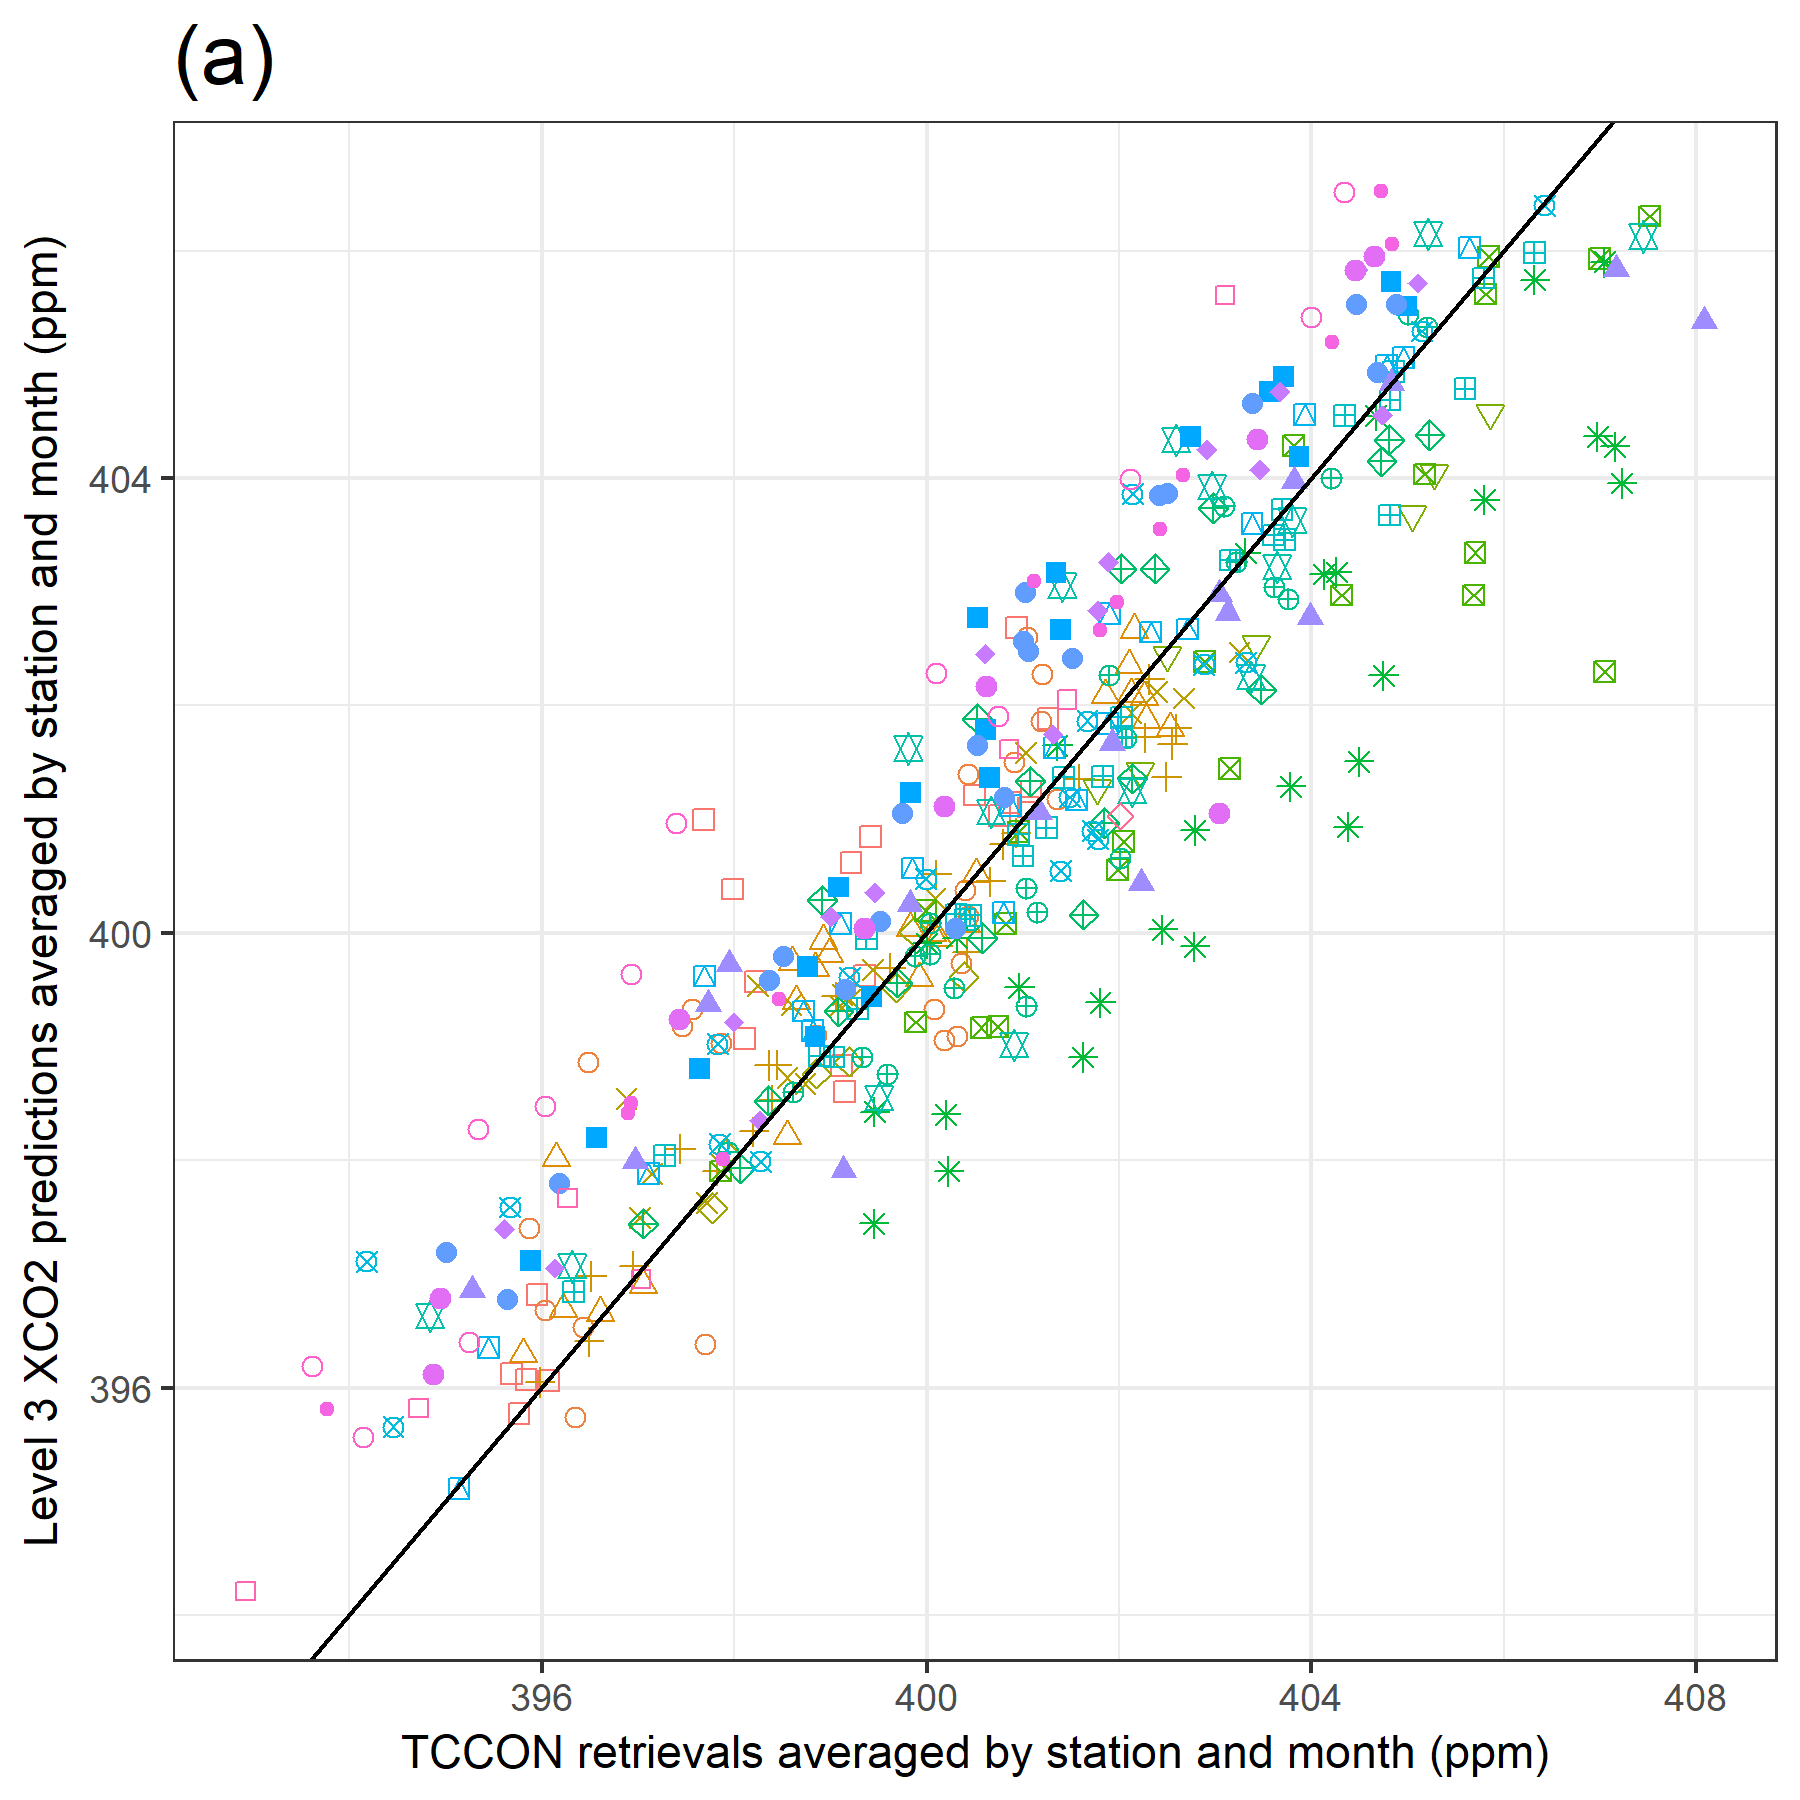
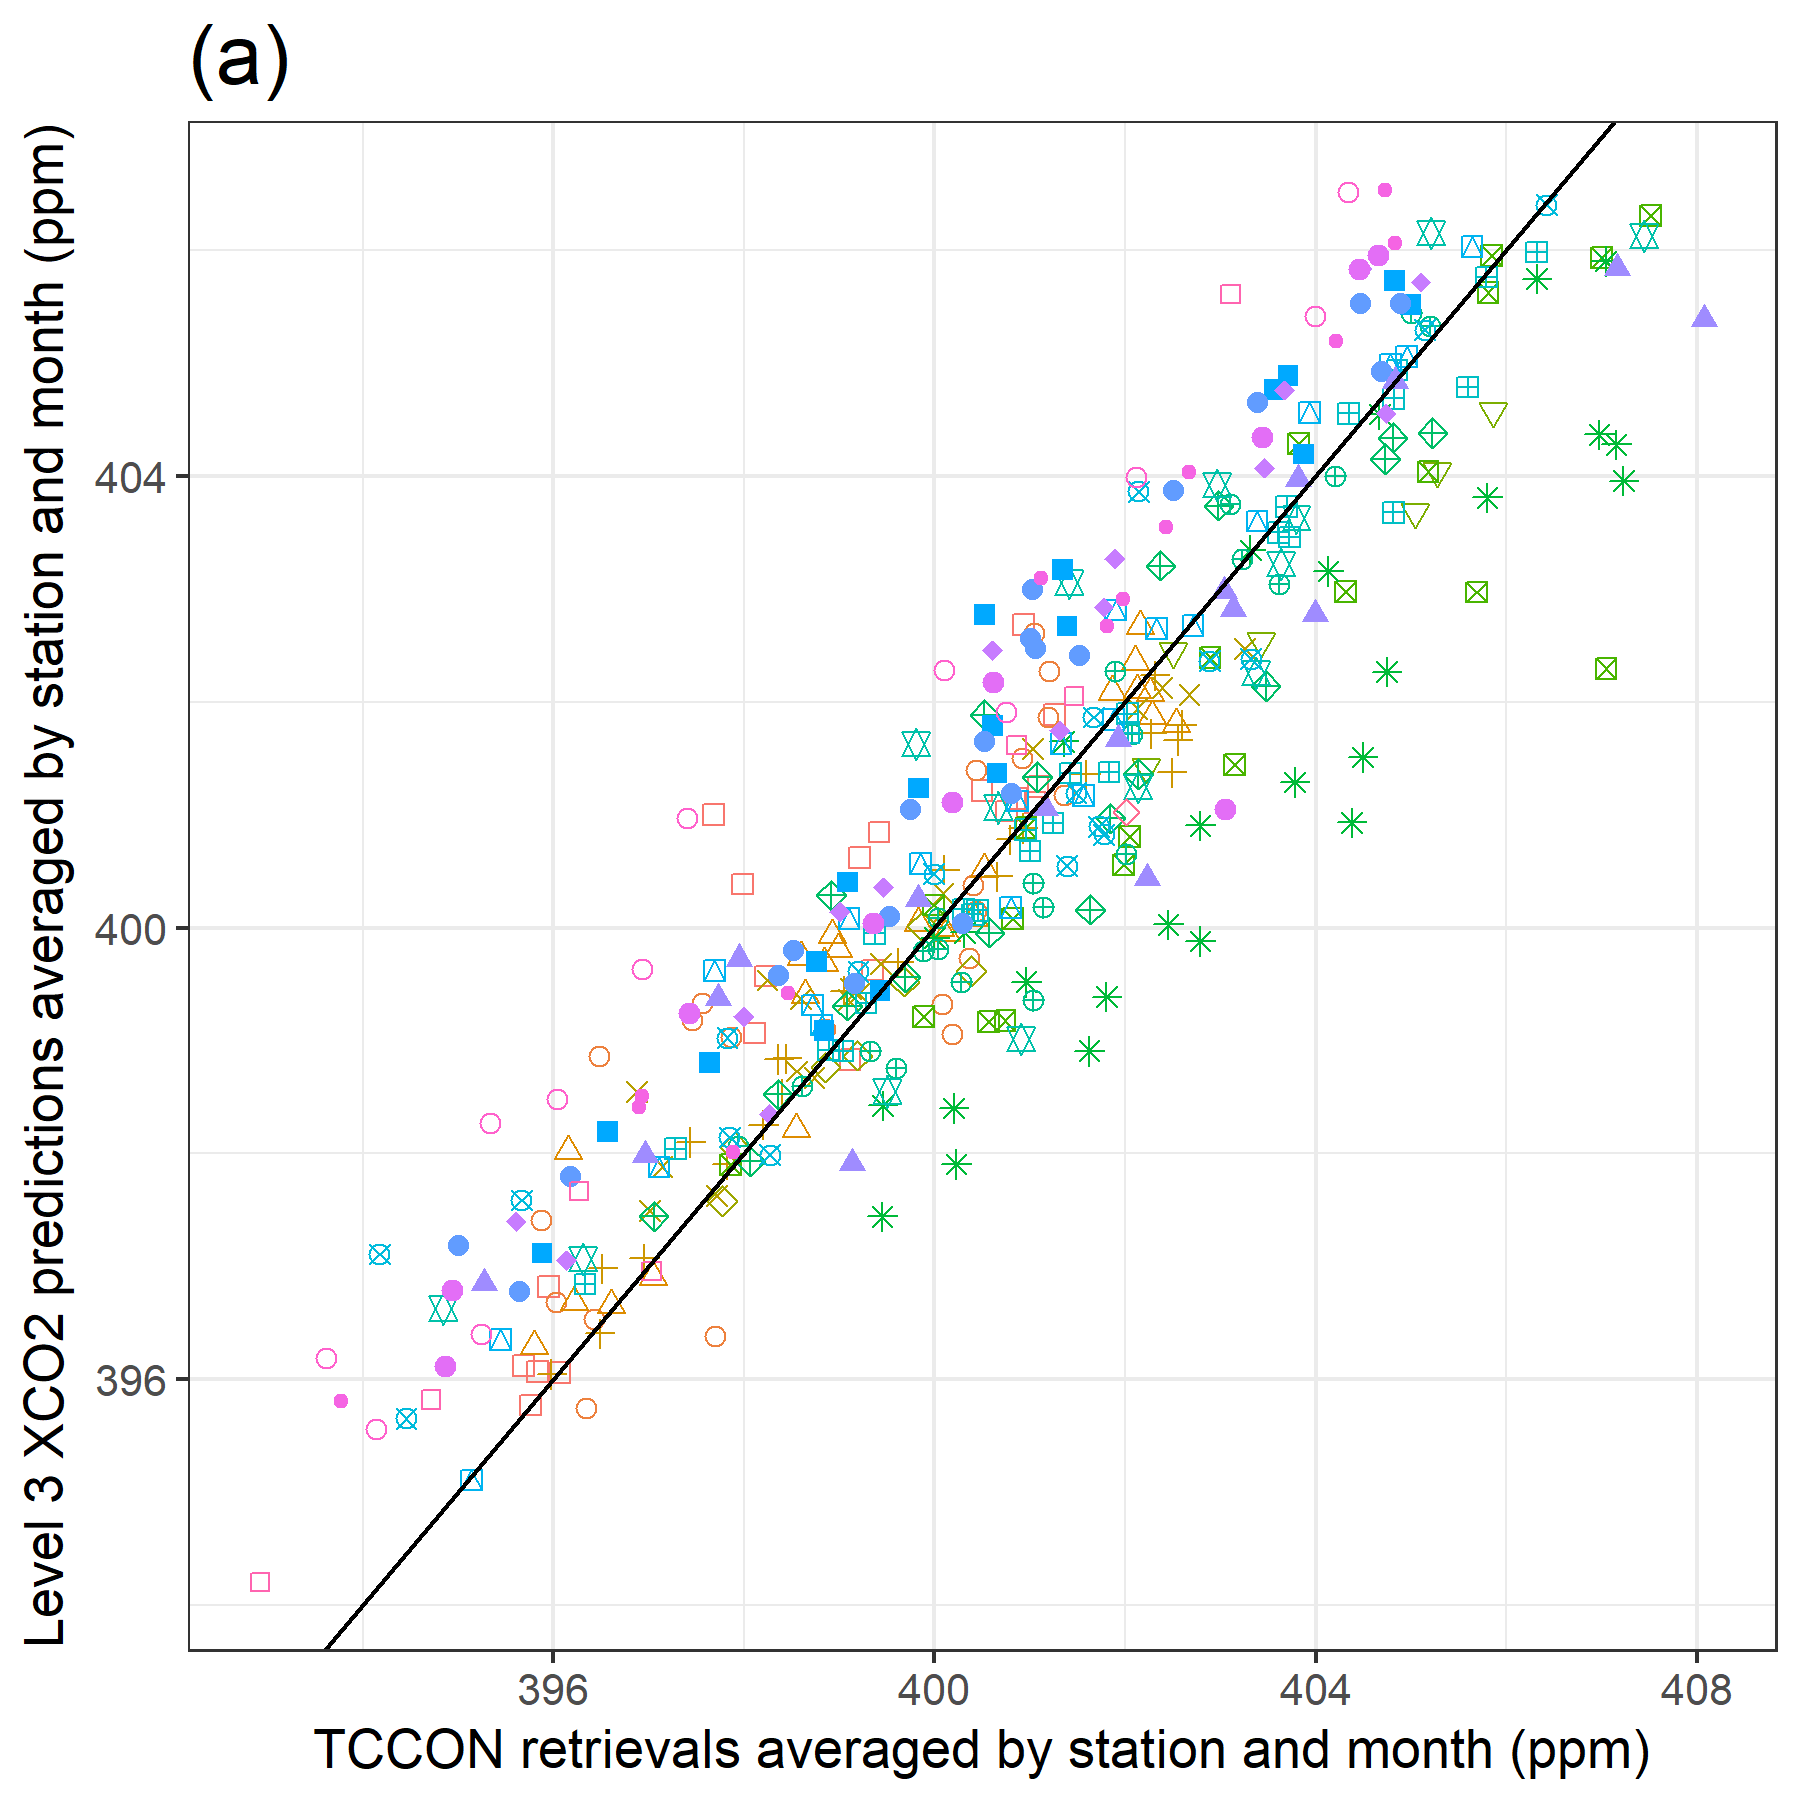
Modified TCCON script to process V7 and V8 simultaneously and compare the same prediction locations

diff --git a/3_Analyse_Results/FRKv8_no_target.tex b/3_Analyse_Results/FRKv8_no_target.tex
@@ -1,25 +1,25 @@
-Eureka & 11 & -0.62 & 0.87 & 1.37 & 0.91 & 0.998 & 0.82 \\ 
-  Nyalesund & 49 & 0.22 & 1.07 & 1.46 & 0.88 & 1.001 & 0.76 \\ 
-  Sodankyla & 142 & 0.73 & 0.91 & 1.16 & 0.94 & 1.002 & 0.85 \\ 
-  Bialystok & 139 & 0.19 & 0.61 & 0.77 & 0.94 & 1.000 & 0.95 \\ 
-  Bremen & 31 & 0.36 & 0.90 & 1.13 & 0.89 & 1.001 & 0.90 \\ 
-  Karlsruhe & 137 & 0.38 & 0.81 & 1.07 & 0.90 & 1.001 & 0.83 \\ 
-  Paris & 96 & -0.72 & 1.22 & 1.56 & 0.83 & 0.998 & 0.81 \\ 
-  Orleans & 176 & 0.38 & 0.79 & 0.99 & 0.90 & 1.001 & 0.85 \\ 
-  Garmisch & 130 & 0.63 & 0.98 & 1.22 & 0.85 & 1.002 & 0.85 \\ 
-  Parkfalls & 213 & -0.14 & 0.70 & 0.92 & 0.92 & 1.000 & 0.94 \\ 
-  Rikubetsu & 68 & -0.07 & 0.82 & 1.00 & 0.91 & 1.000 & 0.93 \\ 
-  Lamont & 392 & -0.21 & 0.58 & 0.74 & 0.95 & 0.999 & 0.99 \\ 
+Eureka & 5 & -1.48 & 1.59 & 2.00 & 0.73 & 0.996 & 0.40 \\ 
+  Nyalesund & 31 & 0.60 & 1.22 & 1.64 & 0.83 & 1.002 & 0.81 \\ 
+  Sodankyla & 112 & 0.77 & 0.96 & 1.23 & 0.94 & 1.002 & 0.82 \\ 
+  Bialystok & 106 & 0.18 & 0.60 & 0.76 & 0.95 & 1.000 & 0.94 \\ 
+  Bremen & 23 & 0.18 & 0.86 & 1.12 & 0.91 & 1.000 & 0.87 \\ 
+  Karlsruhe & 103 & 0.33 & 0.76 & 1.01 & 0.92 & 1.001 & 0.84 \\ 
+  Paris & 81 & -0.63 & 1.22 & 1.55 & 0.82 & 0.998 & 0.78 \\ 
+  Orleans & 146 & 0.31 & 0.79 & 0.97 & 0.89 & 1.001 & 0.82 \\ 
+  Garmisch & 101 & 0.50 & 0.85 & 1.06 & 0.89 & 1.001 & 0.90 \\ 
+  Parkfalls & 190 & -0.13 & 0.71 & 0.93 & 0.91 & 1.000 & 0.94 \\ 
+  Rikubetsu & 56 & 0.00 & 0.90 & 1.07 & 0.91 & 1.000 & 0.91 \\ 
+  Lamont & 342 & -0.22 & 0.59 & 0.75 & 0.93 & 0.999 & 0.99 \\ 
   Anmeyondo & 48 & -0.30 & 1.10 & 1.42 & 0.85 & 0.999 & 0.77 \\ 
-  Tsukuba & 153 & -0.59 & 1.05 & 1.36 & 0.76 & 0.999 & 0.86 \\ 
-  Edwards & 387 & 0.08 & 0.59 & 0.77 & 0.93 & 1.000 & 0.97 \\ 
-  Pasadena & 497 & -1.89 & 1.97 & 2.28 & 0.81 & 0.995 & 0.80 \\ 
-  Saga & 93 & -1.01 & 1.15 & 1.41 & 0.93 & 0.997 & 0.94 \\ 
-  Izana & 18 & -0.87 & 0.91 & 1.05 & 0.86 & 0.998 & 0.89 \\ 
-  Manaus & 56 & -0.22 & 0.63 & 0.79 & 0.71 & 0.999 & 0.98 \\ 
-  Ascension & 230 & 0.25 & 0.70 & 0.91 & 0.78 & 1.001 & 0.99 \\ 
-  Darwin & 331 & -0.10 & 0.50 & 0.59 & 0.95 & 1.000 & 1.00 \\ 
-  Reunion & 267 & 0.00 & 0.49 & 0.61 & 0.93 & 1.000 & 0.99 \\ 
-  Wollongong & 227 & 0.14 & 0.69 & 0.85 & 0.85 & 1.000 & 0.94 \\ 
-  Lauder & 265 & 0.30 & 0.51 & 0.71 & 0.91 & 1.001 & 0.98 \\ 
+  Tsukuba & 137 & -0.56 & 1.08 & 1.40 & 0.72 & 0.999 & 0.84 \\ 
+  Edwards & 337 & 0.15 & 0.60 & 0.77 & 0.91 & 1.000 & 0.97 \\ 
+  Pasadena & 443 & -1.77 & 1.86 & 2.15 & 0.79 & 0.996 & 0.81 \\ 
+  Saga & 76 & -1.20 & 1.25 & 1.52 & 0.91 & 0.997 & 0.97 \\ 
+  Izana & 17 & -0.92 & 0.96 & 1.08 & 0.88 & 0.998 & 0.88 \\ 
+  Manaus & 38 & -0.35 & 0.62 & 0.77 & 0.69 & 0.999 & 1.00 \\ 
+  Ascension & 210 & 0.36 & 0.69 & 0.89 & 0.82 & 1.001 & 0.99 \\ 
+  Darwin & 284 & -0.17 & 0.51 & 0.61 & 0.94 & 1.000 & 1.00 \\ 
+  Reunion & 243 & 0.00 & 0.51 & 0.62 & 0.93 & 1.000 & 0.99 \\ 
+  Wollongong & 201 & 0.12 & 0.70 & 0.86 & 0.84 & 1.000 & 0.94 \\ 
+  Lauder & 180 & 0.16 & 0.43 & 0.61 & 0.92 & 1.000 & 0.98 \\ 
    \hline

diff --git a/3_Analyse_Results/FRKv8_no_target_TOTAL.tex b/3_Analyse_Results/FRKv8_no_target_TOTAL.tex
@@ -1,2 +1,2 @@
-Total v8r & 4156 & -0.20 & 0.86 & 1.18 & 0.86 & 0.999 & 0.86 \\ 
-Total v8r (w/o Pas.) & 3659 & 0.03 & 0.71 & 0.94 & 0.90 & 1.000 & 0.92 \\ 
+Total v8r & 3510 & -0.22 & 0.85 & 1.16 & 0.86 & 0.999 & 0.85 \\ 
+Total v8r (w/o Pas.) & 3067 & 0.01 & 0.71 & 0.94 & 0.89 & 1.000 & 0.92 \\ 
